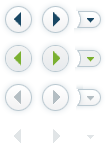
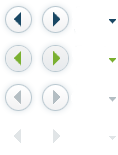
Adjusted to use siblings label as siblings button between prev & next.

diff --git a/public/stylesheets/discuss.css b/public/stylesheets/discuss.css
@@ -948,8 +948,8 @@ form.formtastic fieldset ol li.text .rte-zone textarea {
 /******************/
 
 .statement .siblings_panel {
-  left: 120px;
-  top: -39px;
+  left: 162px;
+  top: -41px;
   width: 819px;
   max-height: 360px;
   padding: 10px 0;
@@ -1017,16 +1017,31 @@ form.formtastic fieldset ol li.text .rte-zone textarea {
 }
 
 #statements .header_buttons {
-  width: 160px;
-  margin-right: 23px;
+  width: 170px;
+  margin-right: 13px;
   min-height: 1px;
   display: inline-block;
   float: left;
   position: relative;
   top: 3px;
-  left: 55px;
+  left: 7px;
   height: 30px;
   overflow: visible;
+}
+
+#statements .header_buttons .prev {
+  position: absolute;
+  left: 16px;
+}
+
+#statements .header_buttons .next {
+  position: absolute;
+  right: 10px;
+}
+
+#statements .header_buttons .show_siblings_button {
+  position: absolute;
+  left: 50px;
 }
 
 #statements .header_link,
@@ -1051,7 +1066,6 @@ form.formtastic fieldset ol li.text .rte-zone textarea {
   font-size: 18px;
   font-weight: bold;
   text-decoration: none;
-	/*padding-right: 21px !important;*/
 	max-width: 550px;
 }
 
@@ -1085,8 +1099,15 @@ form.formtastic fieldset ol li.text .rte-zone textarea {
 
 .header_buttons .show_siblings_label {
   background:  url(../images/page/prev_next_buttons.png) no-repeat scroll -74px -117px;
+  width: 75px;
+  height: 25px;
+  line-height: 20px;
+  font-size: 11px;
+  font-weight: bold;
+  color: #dce0e2;
   position: relative;
-  left: -5px;
+  text-align: center;
+  top: 9px;
 }
 
 .header:hover .prev_stmt, .header.active .prev_stmt {
@@ -1102,6 +1123,7 @@ form.formtastic fieldset ol li.text .rte-zone textarea {
 .header:hover .show_siblings_label, .header.active .show_siblings_label {
 	background-position: -74px 0;
   cursor: pointer;
+  color: #21587f;
 }
 
 .header:hover .prev_stmt:hover,
@@ -1116,24 +1138,32 @@ form.formtastic fieldset ol li.text .rte-zone textarea {
 
 .header:hover .show_siblings_label:hover {
   background-position: -74px -39px;
+  color: #7bb031;
 }
 
 .header:hover .prev_stmt.disabled,
 .header.active .prev_stmt.disabled {
   background-position: 0 -78px;
   cursor: default;
+  position: absolute;
+  left: 16px;
 }
 
 .header:hover .next_stmt.disabled,
 .header.active .next_stmt.disabled {
   background-position: -37px -78px;
   cursor: default;
+  position: absolute;
+  right: 10px;
 }
 
 .header:hover .show_siblings_label.disabled,
 .header.active .show_siblings_label.disabled {
 	background-position: -74px -78px;
   cursor: default;
+  position: absolute;
+  left: 50px;
+  color: #B4BEC3;
 }
 
 .supporters_label {
@@ -1664,8 +1694,8 @@ form.statement fieldset ol li.tags_container {
 }
 
 .statement .header .loading {
-  left: -33px;
-  top: 10px;
+  left: -1px;
+  top: -1px;
 }
 
 .statement .action_buttons .loading {

diff --git a/app/helpers/statements_helper.rb b/app/helpers/statements_helper.rb
@@ -384,7 +384,9 @@ module StatementsHelper
     buttons = ''
     if statement_node and statement_node.new_record?
       %w(prev next).each{|button| buttons << statement_tag(button.to_sym, type, true)}
-      buttons << content_tag(:span, '&nbsp;', :class => 'show_siblings_label disabled')
+      buttons << content_tag(:span,
+                             I18n.t("discuss.statements.sibling_labels.#{type.classify.constantize.name_for_siblings}"), 
+                             :class => 'show_siblings_label disabled')
     else
       buttons << content_tag(:span, '', :class => 'loading', :style => 'display:none')
       %w(prev next).each do |button|
@@ -401,11 +403,12 @@ module StatementsHelper
 
   def siblings_button(statement_node, type, opts={})
     origin = opts[:origin]
+    name = type.classify.constantize.name_for_siblings
     url = if statement_node.nil? or statement_node.class.name.underscore != type # ADD TEASERS
       if statement_node.nil?
         question_descendants_url(:origin => origin)
       else
-        descendants_statement_node_url(statement_node, type.classify.constantize.name_for_siblings)
+        descendants_statement_node_url(statement_node, name)
       end
     else  # STATEMENT NODES
       if statement_node.parent_id.nil?
@@ -416,11 +419,11 @@ module StatementsHelper
                                        :current_node => statement_node)
       end
     end
+
     content_tag(:a,
                 :href => url,
-                :class => 'show_siblings_button expandable',
-                :title => 'show_siblings_button') do
-      content_tag(:span, '&nbsp;',
+                :class => 'show_siblings_button expandable') do
+      content_tag(:span, I18n.t("discuss.statements.sibling_labels.#{name}"),
                   :class => 'show_siblings_label ttLink no_border',
                   :title => I18n.t("discuss.tooltips.siblings.#{statement_node ? dom_class(statement_node) : 'question'}"))
     end
